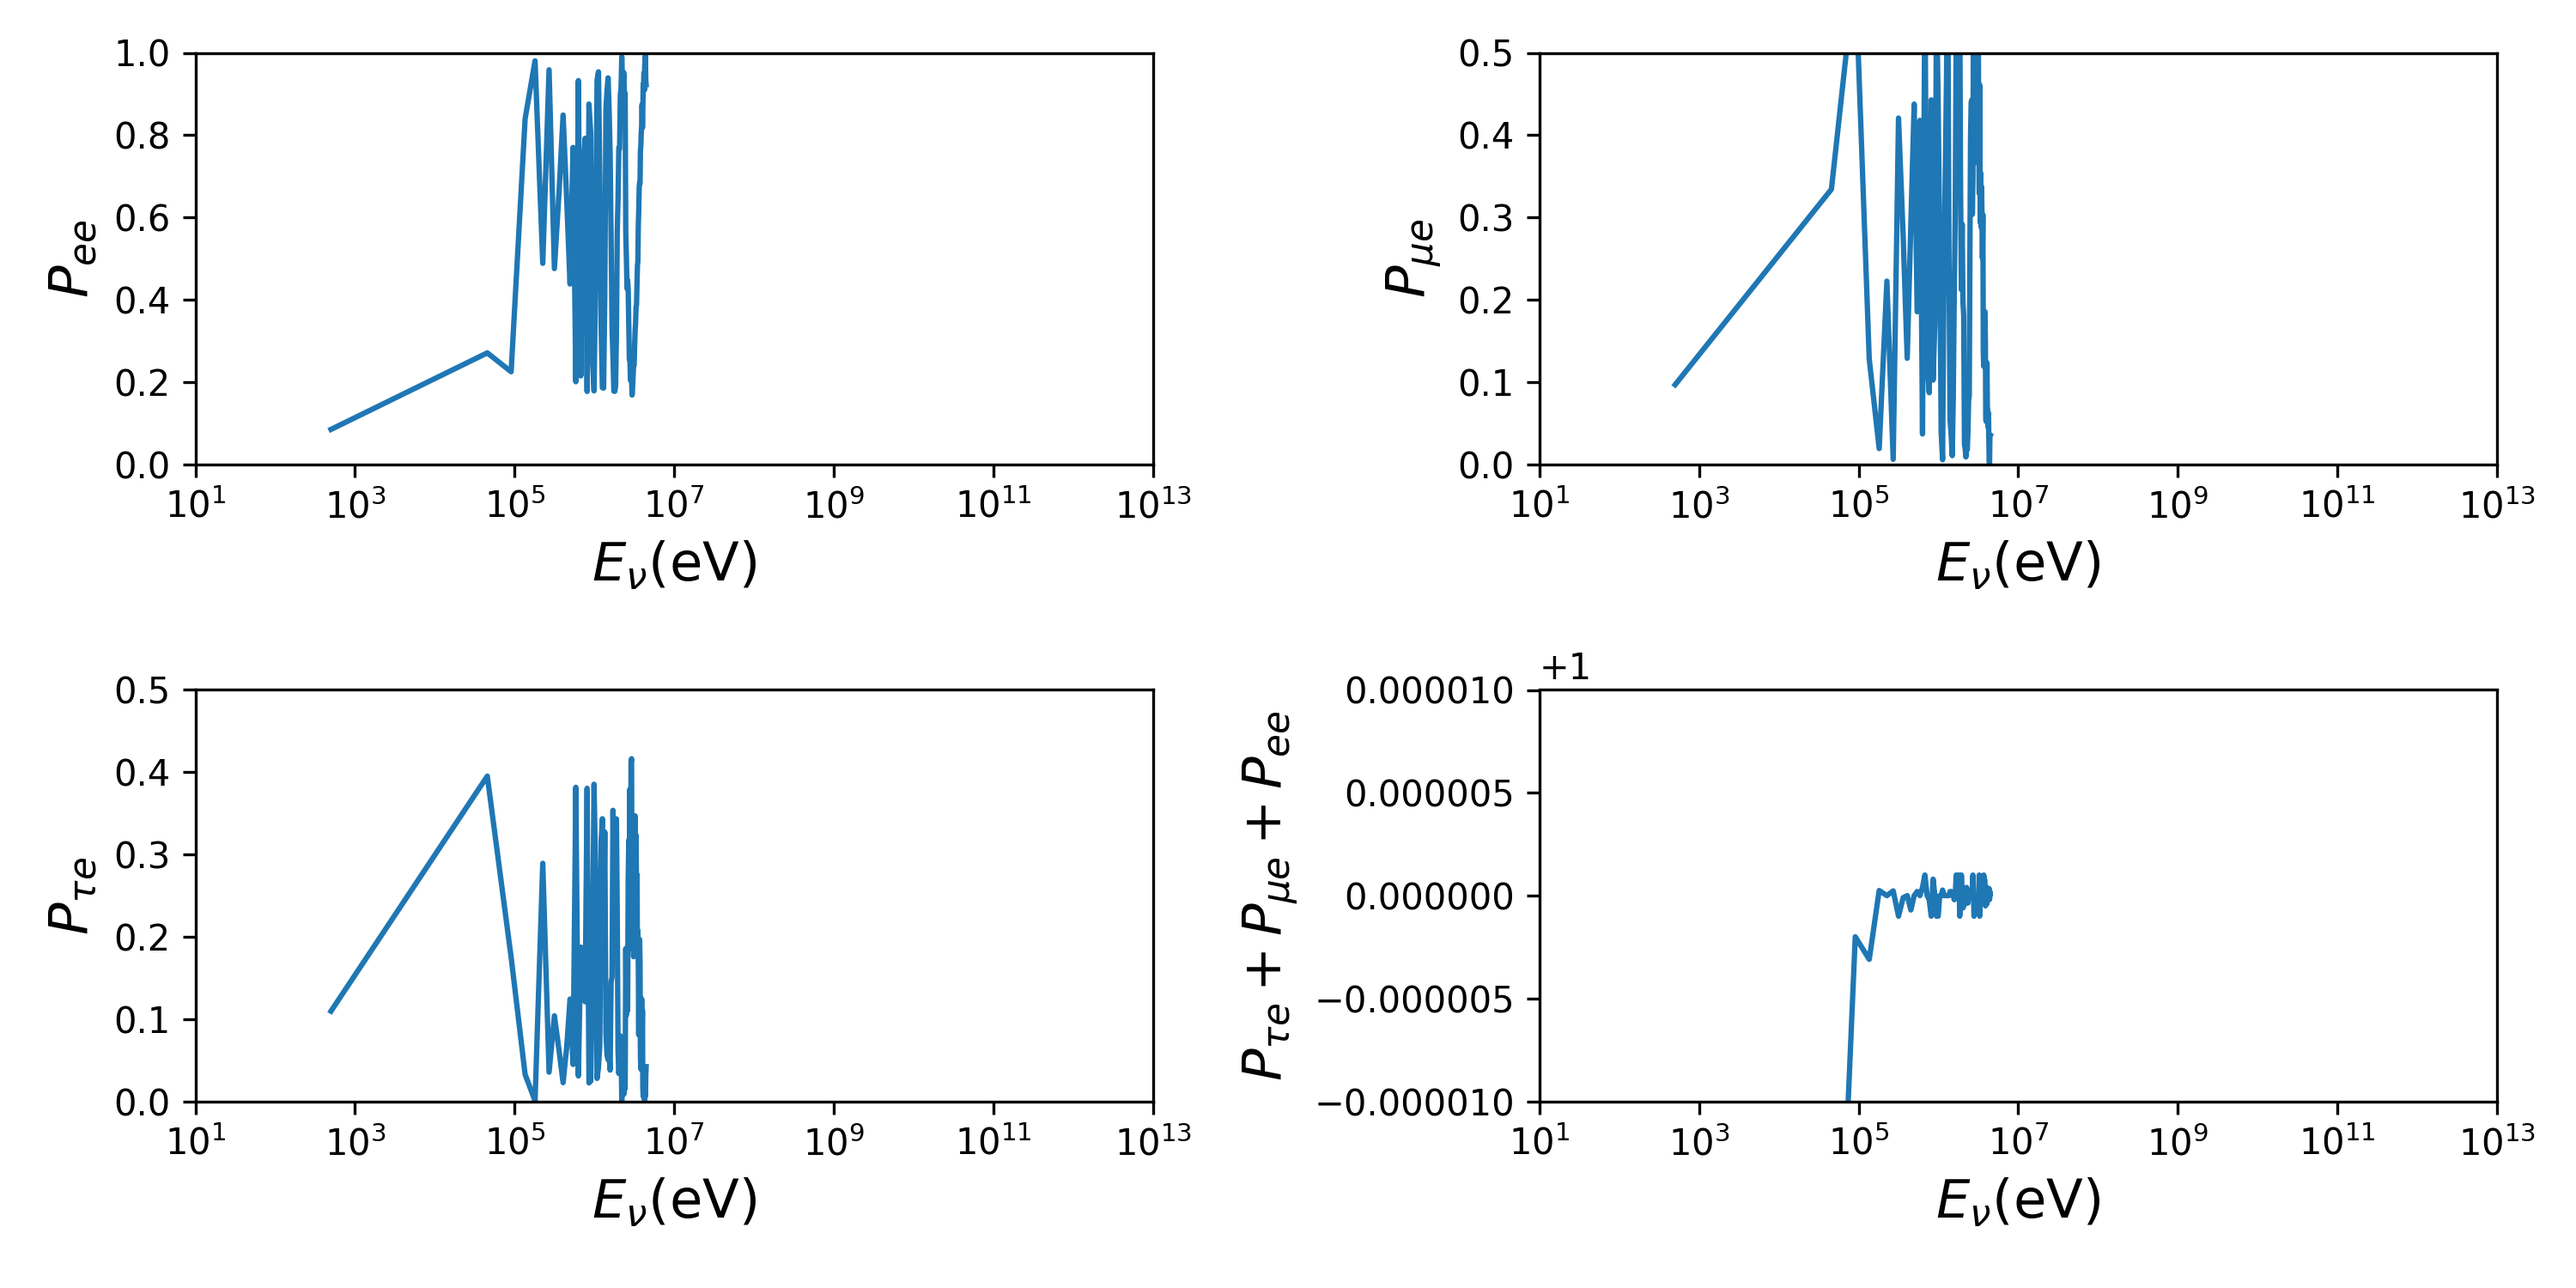
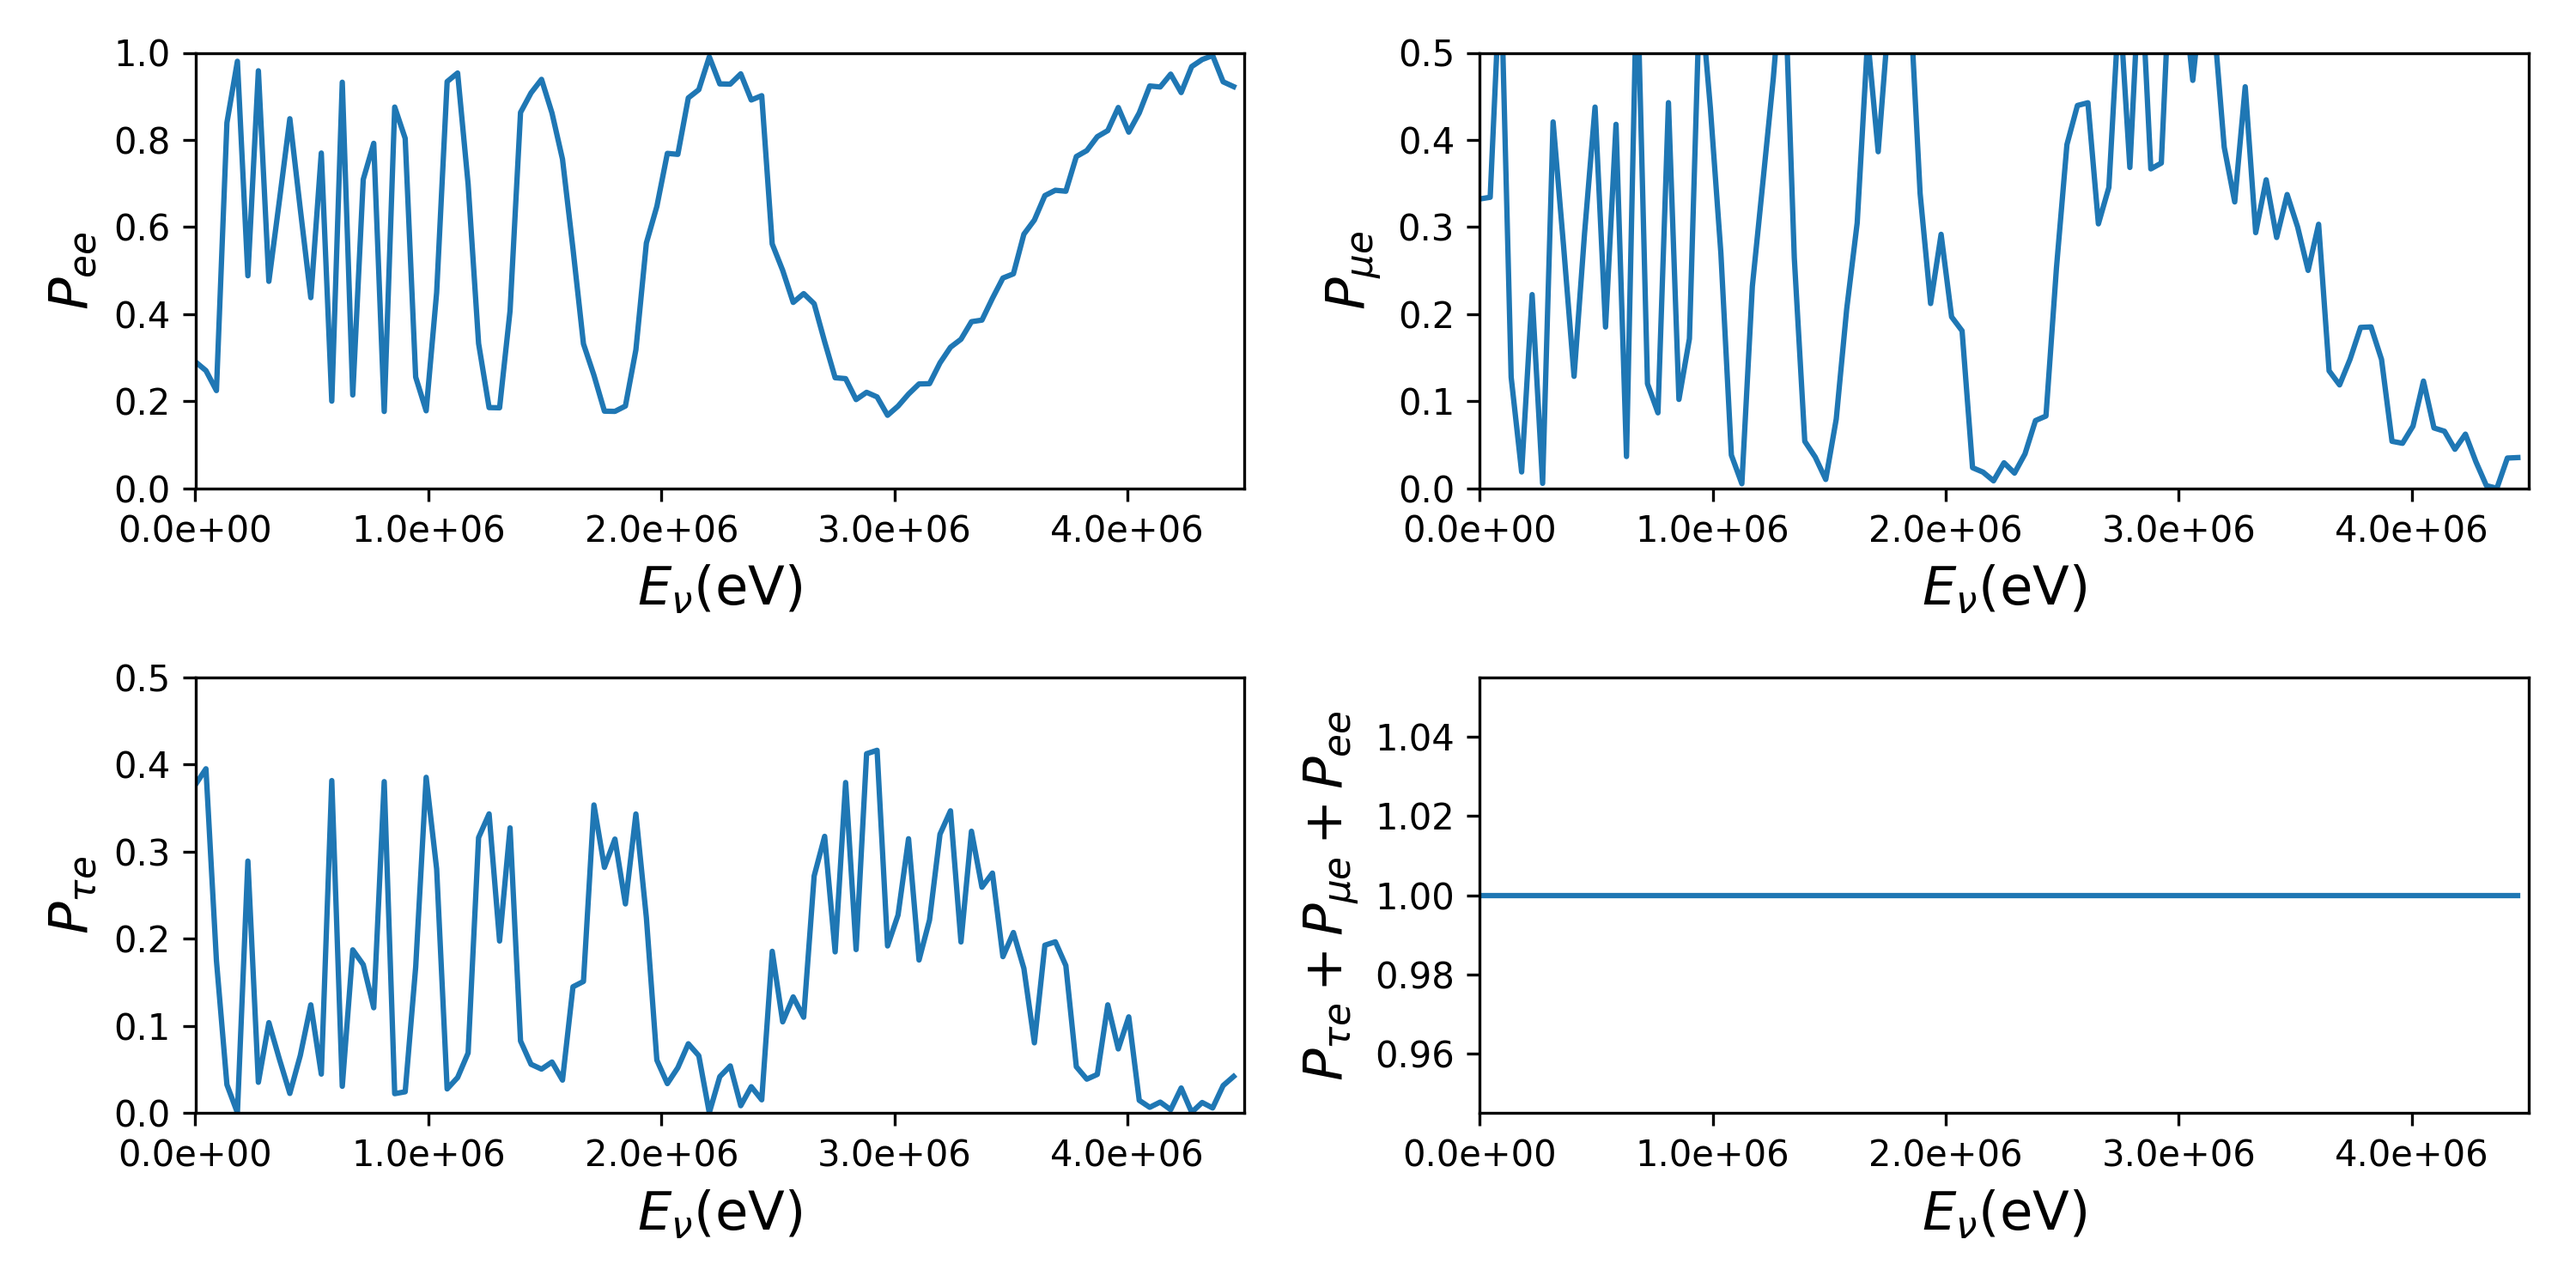
Nice linspaced graph for relevant domain. From now on, tests using the real paths will be done in a new (earth_testing) branch.

diff --git a/uandino_v02/results/100E_anti_fig1_100M_linspace_domain.282728.clustermaster.uniandes.edu.co/plotTheThing.py b/uandino_v02/results/100E_anti_fig1_100M_linspace_domain.282728.clustermaster.uniandes.edu.co/plotTheThing.py
@@ -1,33 +1,44 @@
 #!/usr/bin/env python
 import numpy as np
 import matplotlib.pyplot as plt
-
-
+import matplotlib.ticker as mtick
 
 probData=np.loadtxt('probsTest.csv', delimiter=',', dtype=float)
-probabilities, ax = plt.subplots(2, 2, figsize=(10, 5))
-ax[0, 0].plot(probData[:,0], probData[:,1])
-ax[0, 1].plot(probData[:,0], probData[:,2])
-ax[1, 0].plot(probData[:,0], probData[:,3])
-ax[1, 1].plot(probData[:,0], probData[:,1]+ probData[:,2]+ probData[:,3] )
-ax[0, 0].set_ylabel('$P_{e e}$', fontsize=15)
-ax[0, 1].set_ylabel('$P_{\mu e}$', fontsize=15)
-ax[1, 0].set_ylabel('$P_{\\tau e}$', fontsize=15)
-ax[1, 1].set_ylabel('$P_{\\tau e}+P_{\mu e}+ P_{e e}$', fontsize=15)
-#ax[1, 1].set_ylim(1-0.01, 1+0.01)
+def plot(data):
+	probabilities, ax = plt.subplots(2, 2, figsize=(10, 5))
+	ax[0, 0].plot(probData[:,0], probData[:,1])
+	ax[0, 1].plot(probData[:,0], probData[:,2])
+	ax[1, 0].plot(probData[:,0], probData[:,3])
+	ax[1, 1].plot(probData[:,0], probData[:,1]+ probData[:,2]+ probData[:,3] )
+	ax[0, 0].set_ylabel('$P_{e e}$', fontsize=15)
+	ax[0, 1].set_ylabel('$P_{\mu e}$', fontsize=15)
+	ax[1, 0].set_ylabel('$P_{\\tau e}$', fontsize=15)
+	ax[1, 1].set_ylabel('$P_{\\tau e}+P_{\mu e}+ P_{e e}$', fontsize=15)
+	#ax[1, 1].set_ylim(1-0.01, 1+0.01)
 
-for i in range(2):
-    for k in range(2):
-        ax[i,k].set_xscale('log')
-        ax[i,k].set_xlabel('$E_{\\nu}$(eV)', fontsize=15)
-        ax[i,k].set_xlim(1e1, 1e13)
-ax[1,1].set_ylim(1-0.00001, 1+0.00001)
-ax[0,1].set_ylim(0,0.5)
-ax[1,0].set_ylim(0,0.5)
-ax[0,0].set_ylim(0,1)
-
-plt.tight_layout()
-plt.gcf()
+	for i in range(2):
+	    for k in range(2):
+		#ax[i,k].set_xscale('log')
+		ax[i,k].set_xlabel('$E_{\\nu}$(eV)', fontsize=15)
+		ax[i,k].set_xlim(500, 4.5e6)
+		ax[i,k].xaxis.set_major_formatter(mtick.FormatStrFormatter('%.1e'))
+		ax[i,k].locator_params(axis='x', nbins=5)
+	#ax[1,1].set_ylim(1-0.00001, 1+0.00001)
+	ax[0,1].set_ylim(0,0.5)
+	ax[1,0].set_ylim(0,0.5)
+	ax[0,0].set_ylim(0,1)
+	plt.tight_layout()
+	return probabilities
+def normalize(data):
+	tot = data[:,1]+data[:,2]+data[:,3]
+	data[:,1]/=tot
+	data[:,2]/=tot
+	data[:,3]/=tot
+p1=plot(probData)
+normalize(probData)
+p2=plot(probData)
+#plt.gcf()
+print type(p1)
 plt.savefig('probPlot.png', dpi=300)
 
 newfig = plt.figure()
